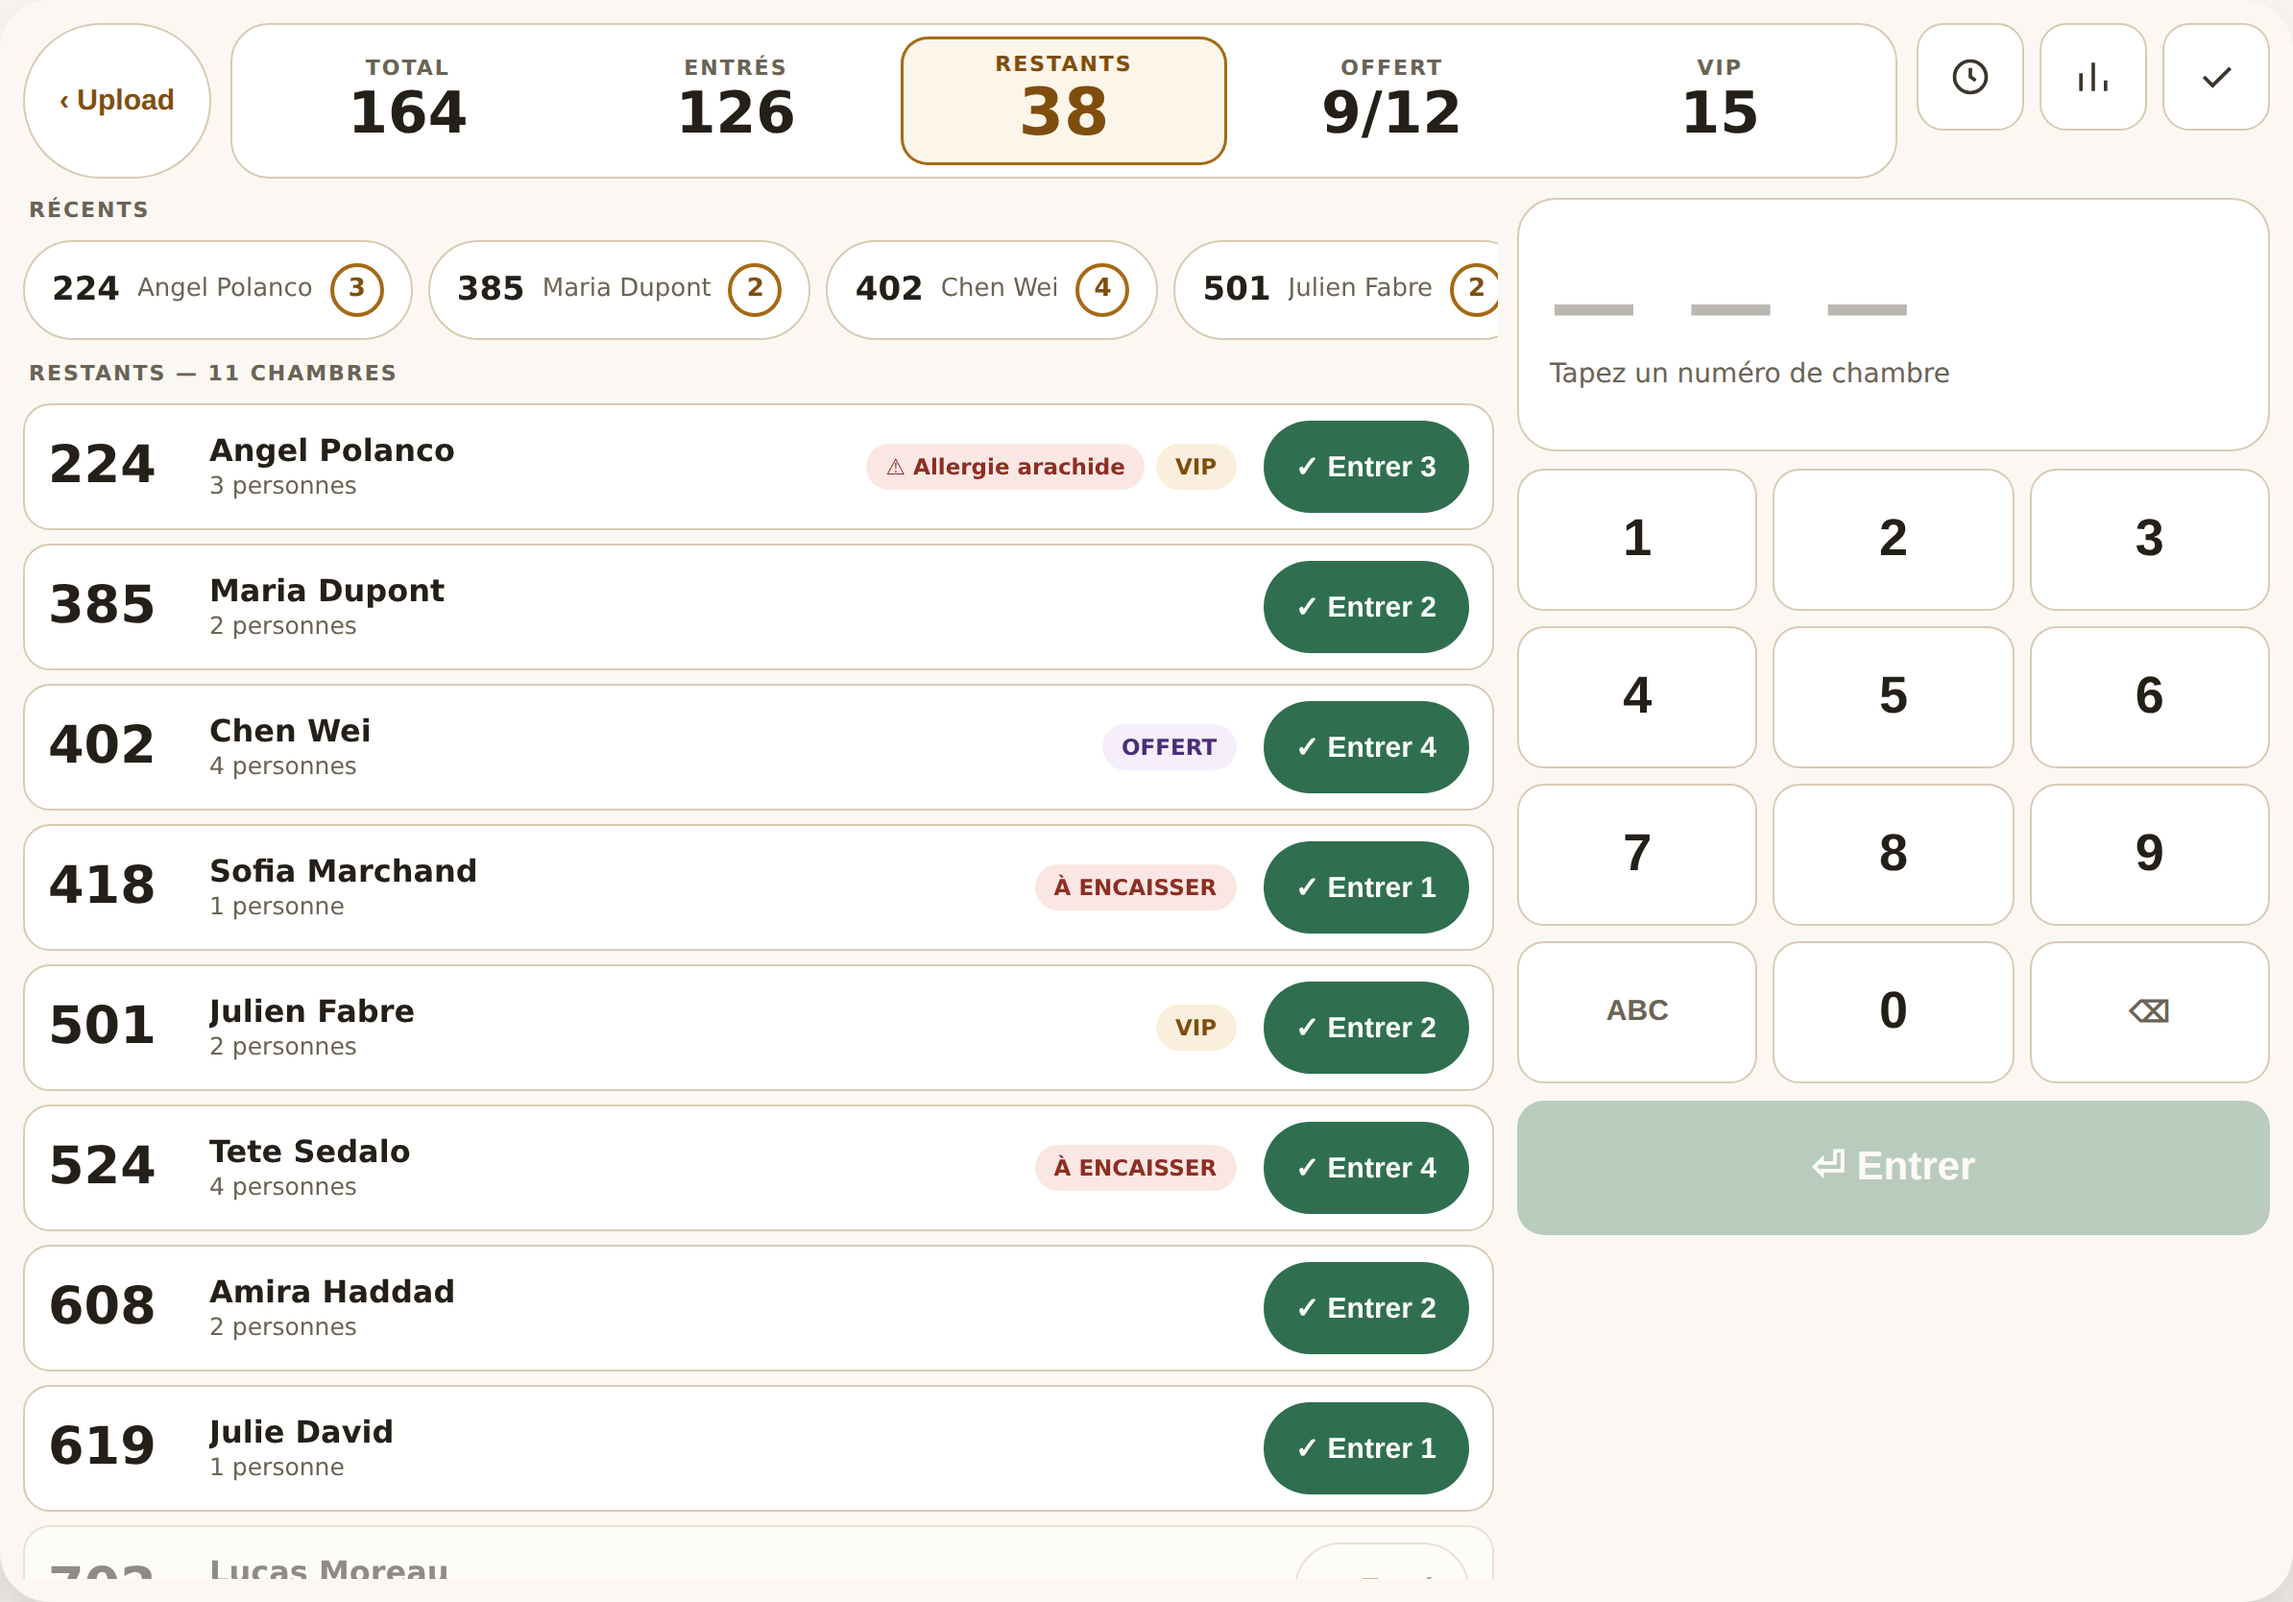
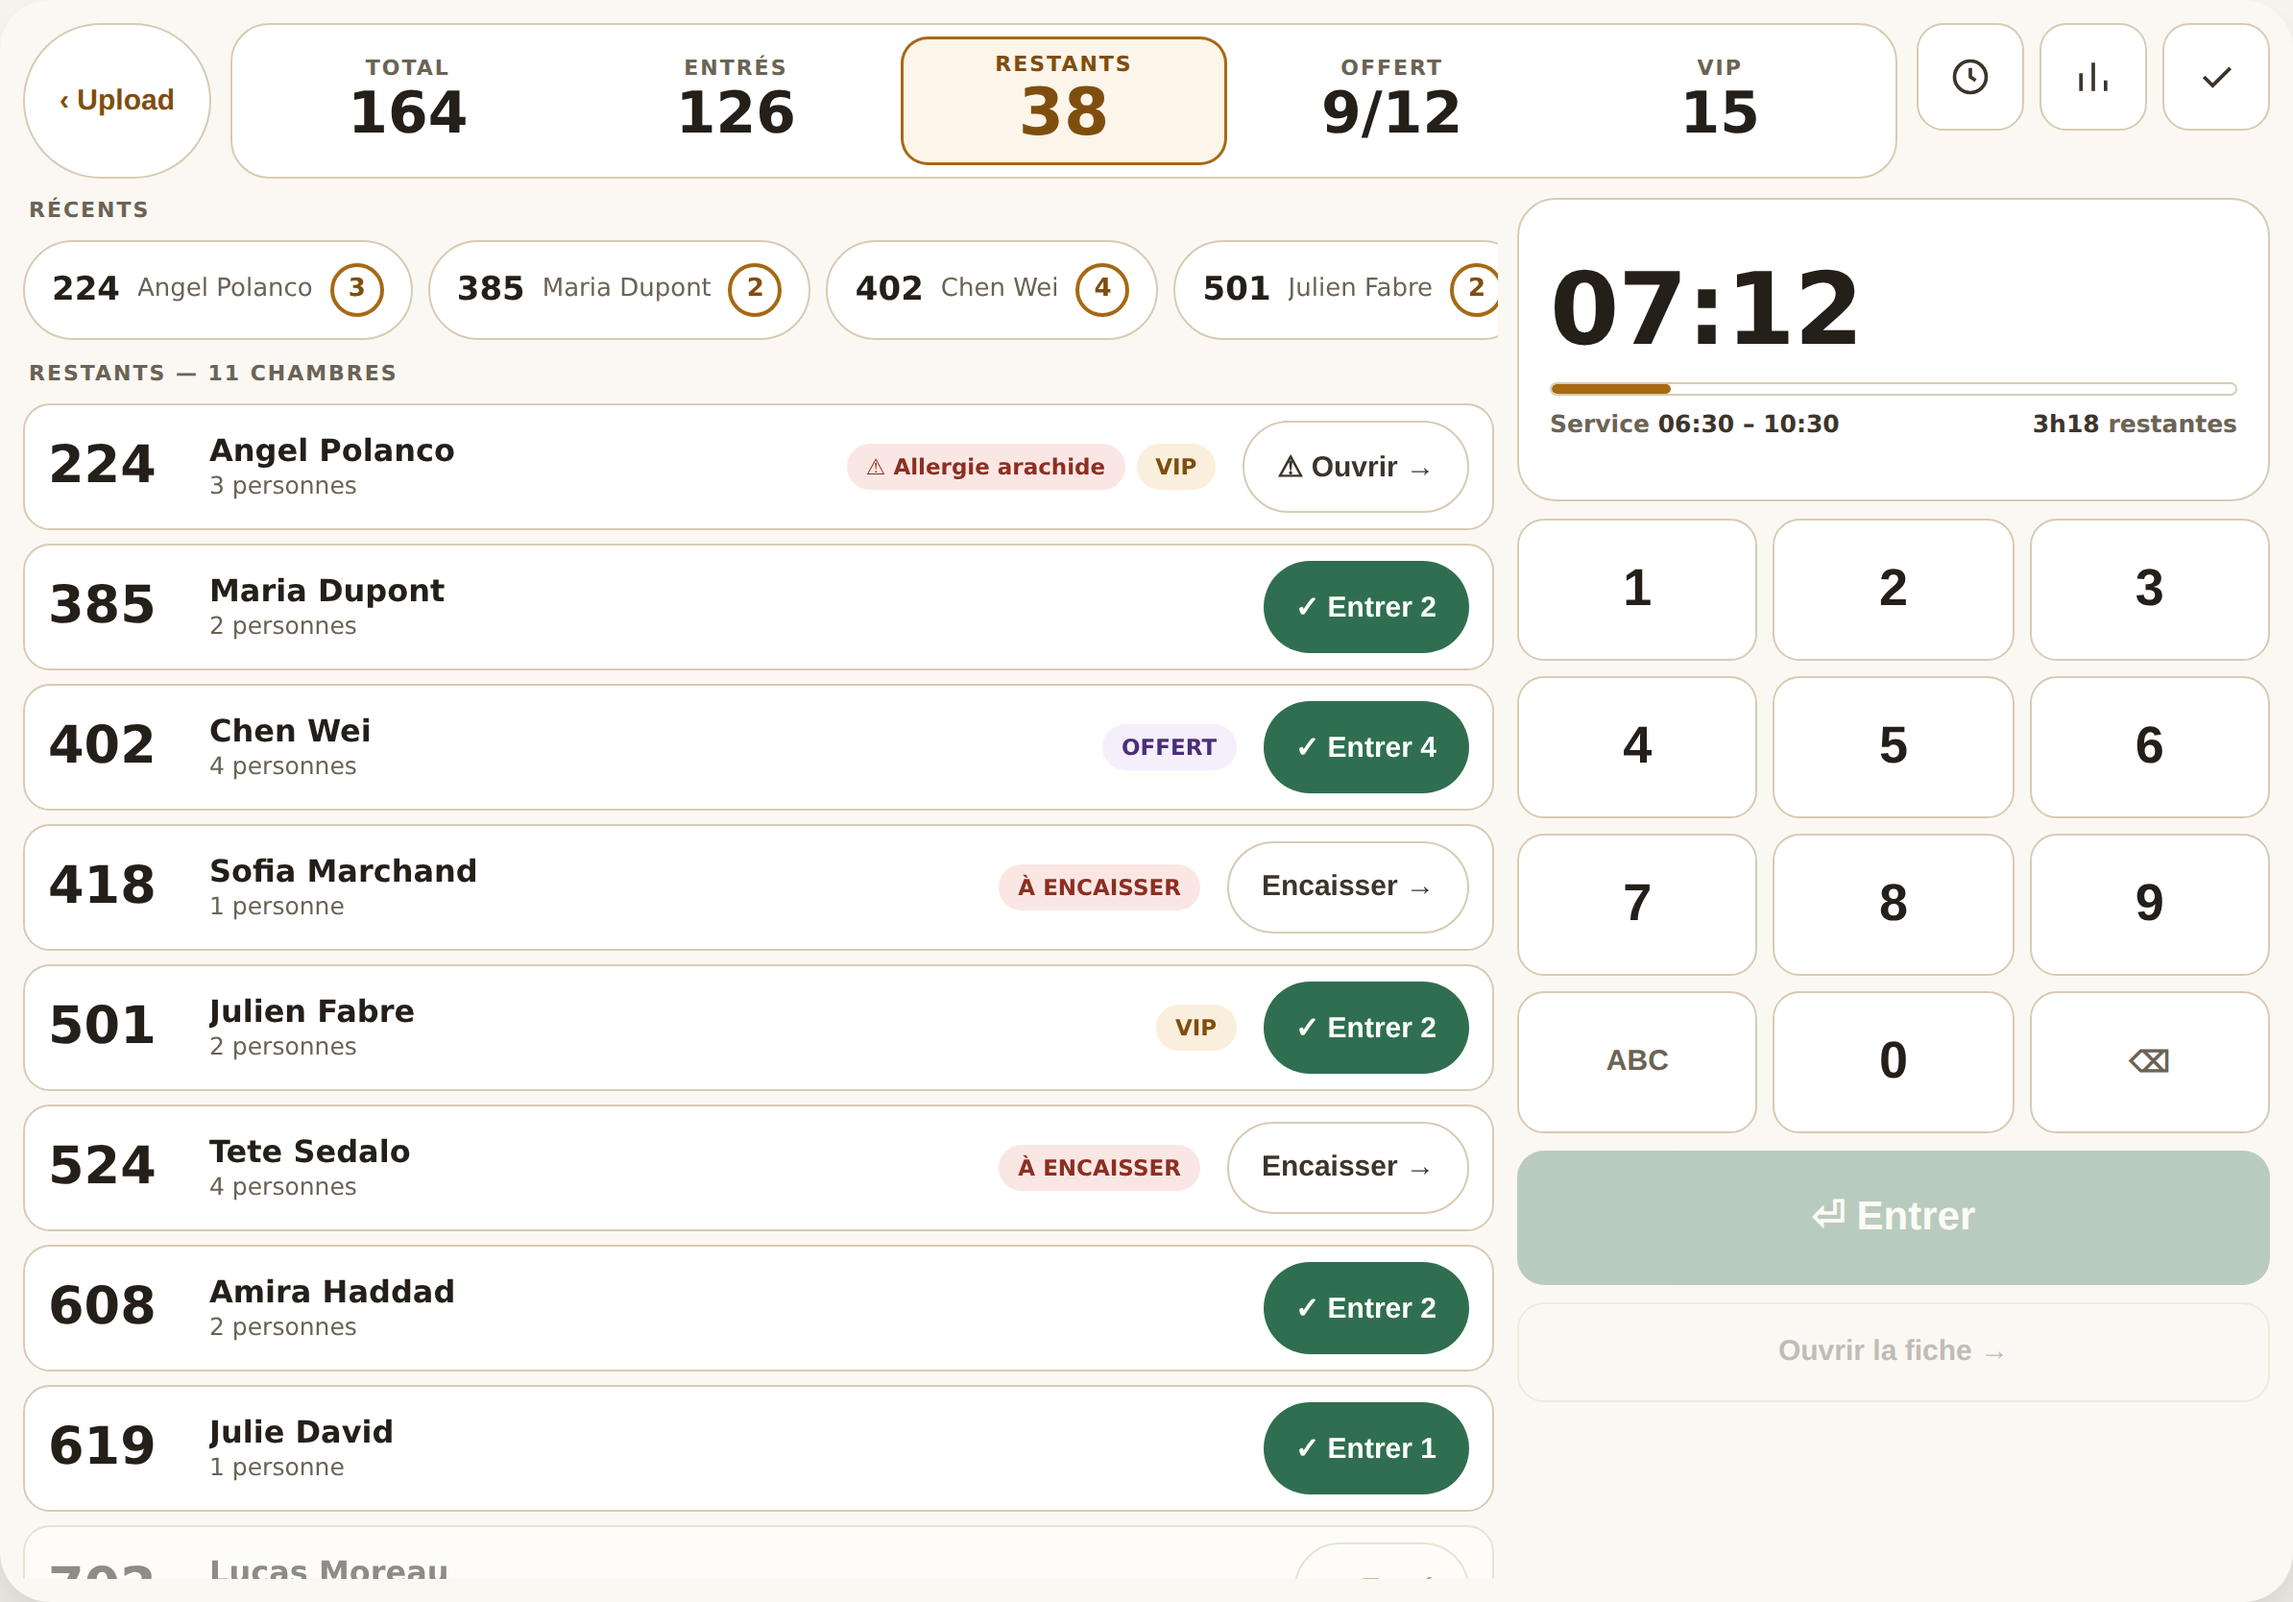
Search v2: the box does double duty — service clock, then guest preview
Idle it shows the time large with the breakfast window as a progress bar
and the time left; searching, the same box becomes the guest preview.
Its height is fixed so the keypad never shifts under a thumb already
moving toward it.

The preview answers the question reception actually asks: first visit or
regular. 1re visite in gold, Habitue - Ne sejour in green.

Two exits from the preview, and which one is primary depends on the
guest. Normally Enter checks in directly and 'Ouvrir la fiche' is the
quiet secondary. When the guest carries an alert or still owes for
breakfast, they swap: the fiche becomes the green primary and Enter
becomes 'Entrer quand meme'. The list rows follow the same rule, so a
peanut allergy cannot be waved through with one tap from either surface.

Still 0 below AA and 0 tap targets under 44px in both schemes.

Claude-Session: https://claude.ai/code/session_01PvjN1yrwGssKpuvjG4vcfR

diff --git a/mockups/search-v2.html b/mockups/search-v2.html
@@ -15,7 +15,7 @@
     --good:#2F6F4F; --bad:#E0685A; --violet:#B99BE8;
     /* "-ink" variants are for text sitting ON a tinted wash of the same hue,
        where the solid colour is far too close to its own background. */
-    --gold-ink:#E9B44C; --bad-ink:#F5A196; --violet-ink:#CDB6F0;
+    --gold-ink:#E9B44C; --bad-ink:#F5A196; --violet-ink:#CDB6F0; --good-ink:#6FD3A0;
     --r-lg:20px; --r-md:14px; --r-sm:11px;
   }
   body.light{
@@ -23,7 +23,7 @@
     --key:#FFFFFF; --key-edge:#D8CBB3; --key-press:#EFE7D9;
     --ink:#241F19; --ink-2:#3C352C; --muted:#6B6355;
     --good:#2F6F4F; --bad:#A13B2C; --violet:#5A3B8F; --gold:#A66914;
-    --gold-ink:#7F4E0E; --bad-ink:#8C2F22; --violet-ink:#4A2E78;
+    --gold-ink:#7F4E0E; --bad-ink:#8C2F22; --violet-ink:#4A2E78; --good-ink:#1F5638;
   }
   *{box-sizing:border-box;margin:0;padding:0}
   body{
@@ -97,19 +97,50 @@
   .t-pay{background:rgba(224,104,90,.16);color:var(--bad-ink)}
   .go{display:flex;align-items:center;gap:7px;padding:0 17px;min-height:48px;border:none;
     border-radius:999px;background:var(--good);color:#fff;font-weight:800;font-size:15px;cursor:pointer}
+    /* A guest carrying an alert, or one who still owes for breakfast, cannot be
+     waved through from the list. The row sends you to the fiche instead. */
+  .go.needs{background:transparent;border:1.5px solid var(--key-edge);color:var(--ink-2)}
   .row.done{opacity:.5}
   .row.done .go{background:transparent;color:var(--gold-ink);border:1.5px solid var(--key-edge)}
 
   /* ── right column ───────────────────────────────────── */
+  /* One box, two jobs. Idle it is the service clock; searching it is the
+     guest preview. Height is FIXED so the keypad never shifts under a
+     thumb that is already moving toward it. */
   .detail{background:var(--surface);border:1px solid var(--key-edge);
-    border-radius:var(--r-lg);padding:14px 16px;min-height:132px;display:flex;
-    flex-direction:column;justify-content:center}
-  .typed{font-size:46px;font-weight:800;letter-spacing:.10em;font-variant-numeric:tabular-nums;
+    border-radius:var(--r-lg);padding:13px 16px;height:158px;display:flex;
+    flex-direction:column;justify-content:center;overflow:hidden}
+
+  /* idle — service clock */
+  .clockrow{display:flex;align-items:baseline;gap:10px}
+  .clock{font-size:52px;font-weight:800;line-height:1;font-variant-numeric:tabular-nums;
+    letter-spacing:-.01em}
+  .rush{font-size:11px;font-weight:800;letter-spacing:.07em;text-transform:uppercase;
+    padding:4px 9px;border-radius:999px;background:rgba(221,156,40,.16);color:var(--gold-ink)}
+  .bar{height:7px;border-radius:999px;background:var(--key);overflow:hidden;margin:11px 0 7px;
+    border:1px solid var(--key-edge)}
+  .bar i{display:block;height:100%;background:var(--gold);border-radius:999px}
+  .svc{display:flex;justify-content:space-between;font-size:12.5px;color:var(--muted);
+    font-weight:700}
+  .svc b{color:var(--ink-2)}
+
+  /* searching — guest preview */
+  .typed{font-size:42px;font-weight:800;letter-spacing:.10em;font-variant-numeric:tabular-nums;
     line-height:1}
   .typed .ph{color:var(--muted);opacity:.45}
-  .dname{font-size:19px;font-weight:700;margin-top:5px}
-  .dsub{font-size:13.5px;color:var(--muted);margin-top:3px;display:flex;gap:7px;align-items:center;flex-wrap:wrap}
-  .dnone{font-size:14px;color:var(--muted);margin-top:6px}
+  .prow{display:flex;align-items:center;justify-content:space-between;gap:10px}
+  .dname{font-size:19px;font-weight:700;margin-top:6px;white-space:nowrap;overflow:hidden;
+    text-overflow:ellipsis}
+  .dsub{font-size:13.5px;color:var(--muted);margin-top:4px;display:flex;gap:6px;align-items:center;flex-wrap:wrap}
+  .dnone{font-size:14px;color:var(--muted);margin-top:8px}
+  .who-badge{flex:none;font-size:11.5px;font-weight:800;padding:5px 11px;border-radius:999px}
+  .b-first{background:rgba(221,156,40,.16);color:var(--gold-ink)}
+  .b-freq{background:rgba(47,111,79,.20);color:var(--good-ink)}
+
+  .secondary{min-height:52px;border-radius:var(--r-md);background:transparent;
+    border:1.5px solid var(--key-edge);color:var(--ink-2);font-size:15px;font-weight:800;
+    cursor:pointer;display:flex;align-items:center;justify-content:center;gap:8px}
+  .secondary[disabled]{opacity:.3;cursor:default}
 
   .pad{display:grid;grid-template-columns:repeat(3,1fr);gap:8px}
   .k{height:74px;border-radius:var(--r-md);background:var(--key);
@@ -168,24 +199,22 @@
     </div>
 
     <div class="right">
-      <div class="detail">
-        <div class="typed" id="typed"><span class="ph">— — —</span></div>
-        <div id="dbody"><div class="dnone">Tapez un numéro de chambre</div></div>
-      </div>
+      <div class="detail" id="detail"></div>
       <div class="pad" id="pad"></div>
       <button class="enter" id="enter" disabled>⏎ Entrer</button>
+      <button class="secondary" id="openfile" disabled>Ouvrir la fiche →</button>
     </div>
   </div>
 </div>
 
 <script>
 const ROOMS = [
-  {r:"224", n:"Angel Polanco",      p:3, vip:true,  alert:"Allergie arachide"},
-  {r:"385", n:"Maria Dupont",       p:2},
-  {r:"402", n:"Chen Wei",           p:4, comp:true},
-  {r:"418", n:"Sofia Marchand",     p:1, pay:true},
-  {r:"501", n:"Julien Fabre",       p:2, vip:true},
-  {r:"524", n:"Tete Sedalo",        p:4, pay:true},
+  {r:"224", n:"Angel Polanco",      p:3, vip:true,  alert:"Allergie arachide", visits:6},
+  {r:"385", n:"Maria Dupont",       p:2, visits:0},
+  {r:"402", n:"Chen Wei",           p:4, comp:true, visits:2},
+  {r:"418", n:"Sofia Marchand",     p:1, pay:true, visits:0},
+  {r:"501", n:"Julien Fabre",       p:2, vip:true, visits:11},
+  {r:"524", n:"Tete Sedalo",        p:4, pay:true, visits:0},
   {r:"608", n:"Amira Haddad",       p:2},
   {r:"619", n:"Julie David",        p:1},
   {r:"702", n:"Lucas Moreau",       p:2, done:true},
@@ -231,30 +260,80 @@ function tagsFor(x){
   return t;
 }
 
-function render(){
-  /* typed display */
-  el("typed").innerHTML = typed
-    ? typed.split("").join(" ")
-    : `<span class="ph">— — —</span>`;
+function whoBadge(x){
+  // Frequent vs first visit, straight in the preview: it changes how you
+  // greet them, and it is the single thing reception asks for by name.
+  return x.visits > 0
+    ? `<span class="who-badge b-freq">Habitué · ${x.visits}ᵉ séjour</span>`
+    : `<span class="who-badge b-first">1ʳᵉ visite</span>`;
+}
 
-  /* quick detail */
+/* Service window — breakfast runs 06:30 to 10:30. */
+const SVC_START = 6.5, SVC_END = 10.5;
+let clockH = 7, clockM = 12;
+function serviceBox(){
+  const now = clockH + clockM/60;
+  const pct = Math.max(0, Math.min(1, (now - SVC_START) / (SVC_END - SVC_START)));
+  const leftMin = Math.max(0, Math.round((SVC_END - now) * 60));
+  const rush = now >= 7.5 && now <= 9 ? `<span class="rush">Pointe</span>` : "";
+  return `
+    <div class="clockrow">
+      <div class="clock">${String(clockH).padStart(2,"0")}:${String(clockM).padStart(2,"0")}</div>
+      ${rush}
+    </div>
+    <div class="bar"><i style="width:${(pct*100).toFixed(1)}%"></i></div>
+    <div class="svc">
+      <span>Service <b>06:30 – 10:30</b></span>
+      <span><b>${Math.floor(leftMin/60)}h${String(leftMin%60).padStart(2,"0")}</b> restantes</span>
+    </div>`;
+}
+
+function render(){
   const hit = exact();
   const near = match();
-  if(hit){
-    el("dbody").innerHTML =
-      `<div class="dname">${hit.n}</div>
-       <div class="dsub"><b>${hit.p} pers.</b> ${tagsFor(hit)}</div>`;
-    el("enter").disabled = false;
-    el("enter").innerHTML = `⏎ Entrer &nbsp;<b>${hit.p}</b>`;
+
+  /* ── the box: clock when idle, guest preview when searching ── */
+  if(!typed){
+    el("detail").innerHTML = serviceBox();
+  } else if(hit){
+    el("detail").innerHTML = `
+      <div class="prow">
+        <div class="typed">${typed.split("").join(" ")}</div>
+        ${whoBadge(hit)}
+      </div>
+      <div class="dname">${hit.n}</div>
+      <div class="dsub"><b>${hit.p} pers.</b> ${tagsFor(hit)}</div>`;
   } else {
-    el("dbody").innerHTML = typed
-      ? `<div class="dnone">${near.length} chambre(s) commencent par ${typed}</div>`
-      : `<div class="dnone">Tapez un numéro de chambre</div>`;
-    el("enter").disabled = true;
-    el("enter").innerHTML = `⏎ Entrer`;
+    el("detail").innerHTML = `
+      <div class="typed">${typed.split("").join(" ")}</div>
+      <div class="dnone">${near.length} chambre(s) commencent par ${typed}</div>`;
   }
 
-  /* list */
+  /* ── actions ── */
+  const enter = el("enter"), open = el("openfile");
+  enter.disabled = !hit;
+  open.disabled  = !hit;
+  if(hit){
+    // A guest who needs money taken, or carries an alert, must not be
+    // waved through with one tap — the fiche is the primary action there.
+    const mustOpen = !!(hit.alert || hit.pay);
+    enter.innerHTML = mustOpen ? `⏎ Entrer quand même` : `⏎ Entrer &nbsp;<b>${hit.p}</b>`;
+    enter.style.background = mustOpen ? "transparent" : "";
+    enter.style.border     = mustOpen ? "1.5px solid var(--key-edge)" : "";
+    enter.style.color      = mustOpen ? "var(--ink-2)" : "";
+    open.style.background  = mustOpen ? "var(--good)" : "";
+    open.style.color       = mustOpen ? "#fff" : "";
+    open.style.border      = mustOpen ? "none" : "";
+    open.innerHTML = mustOpen
+      ? (hit.alert ? `⚠ Ouvrir la fiche →` : `Encaisser · ouvrir →`)
+      : `Ouvrir la fiche →`;
+  } else {
+    enter.innerHTML = `⏎ Entrer`;
+    enter.style.cssText = ""; open.style.cssText = "";
+    open.innerHTML = `Ouvrir la fiche →`;
+  }
+
+  /* ── list ── */
   const shown = typed ? near : ROOMS;
   el("listLabel").textContent = typed
     ? `Résultats — ${shown.length}`
@@ -267,7 +346,11 @@ function render(){
         <div class="s">${x.p} personne${x.p>1?"s":""}${x.done?" · déjà entré":""}</div>
       </div>
       <div class="tags">${tagsFor(x)}</div>
-      <button class="go">${x.done?"✓ Entré":"✓ Entrer "+x.p}</button>
+      <button class="go ${(x.alert||x.pay)&&!x.done?"needs":""}">${
+        x.done ? "✓ Entré"
+        : x.alert ? "⚠ Ouvrir →"
+        : x.pay   ? "Encaisser →"
+        : "✓ Entrer "+x.p}</button>
     </div>`).join("");
 }
 
@@ -286,6 +369,8 @@ function doEnter(){
   setTimeout(()=>{ typed=""; render(); b.style.background=""; },700);
 }
 el("enter").addEventListener("click", doEnter);
+el("openfile").addEventListener("click", ()=>{ if(exact()) alert("→ fiche client (maquette)"); });
+setInterval(()=>{ clockM=(clockM+1)%60; if(clockM===0) clockH=(clockH+1)%24; if(!typed) render(); }, 60000);
 
 /* handedness mirror */
 new MutationObserver(()=>{
